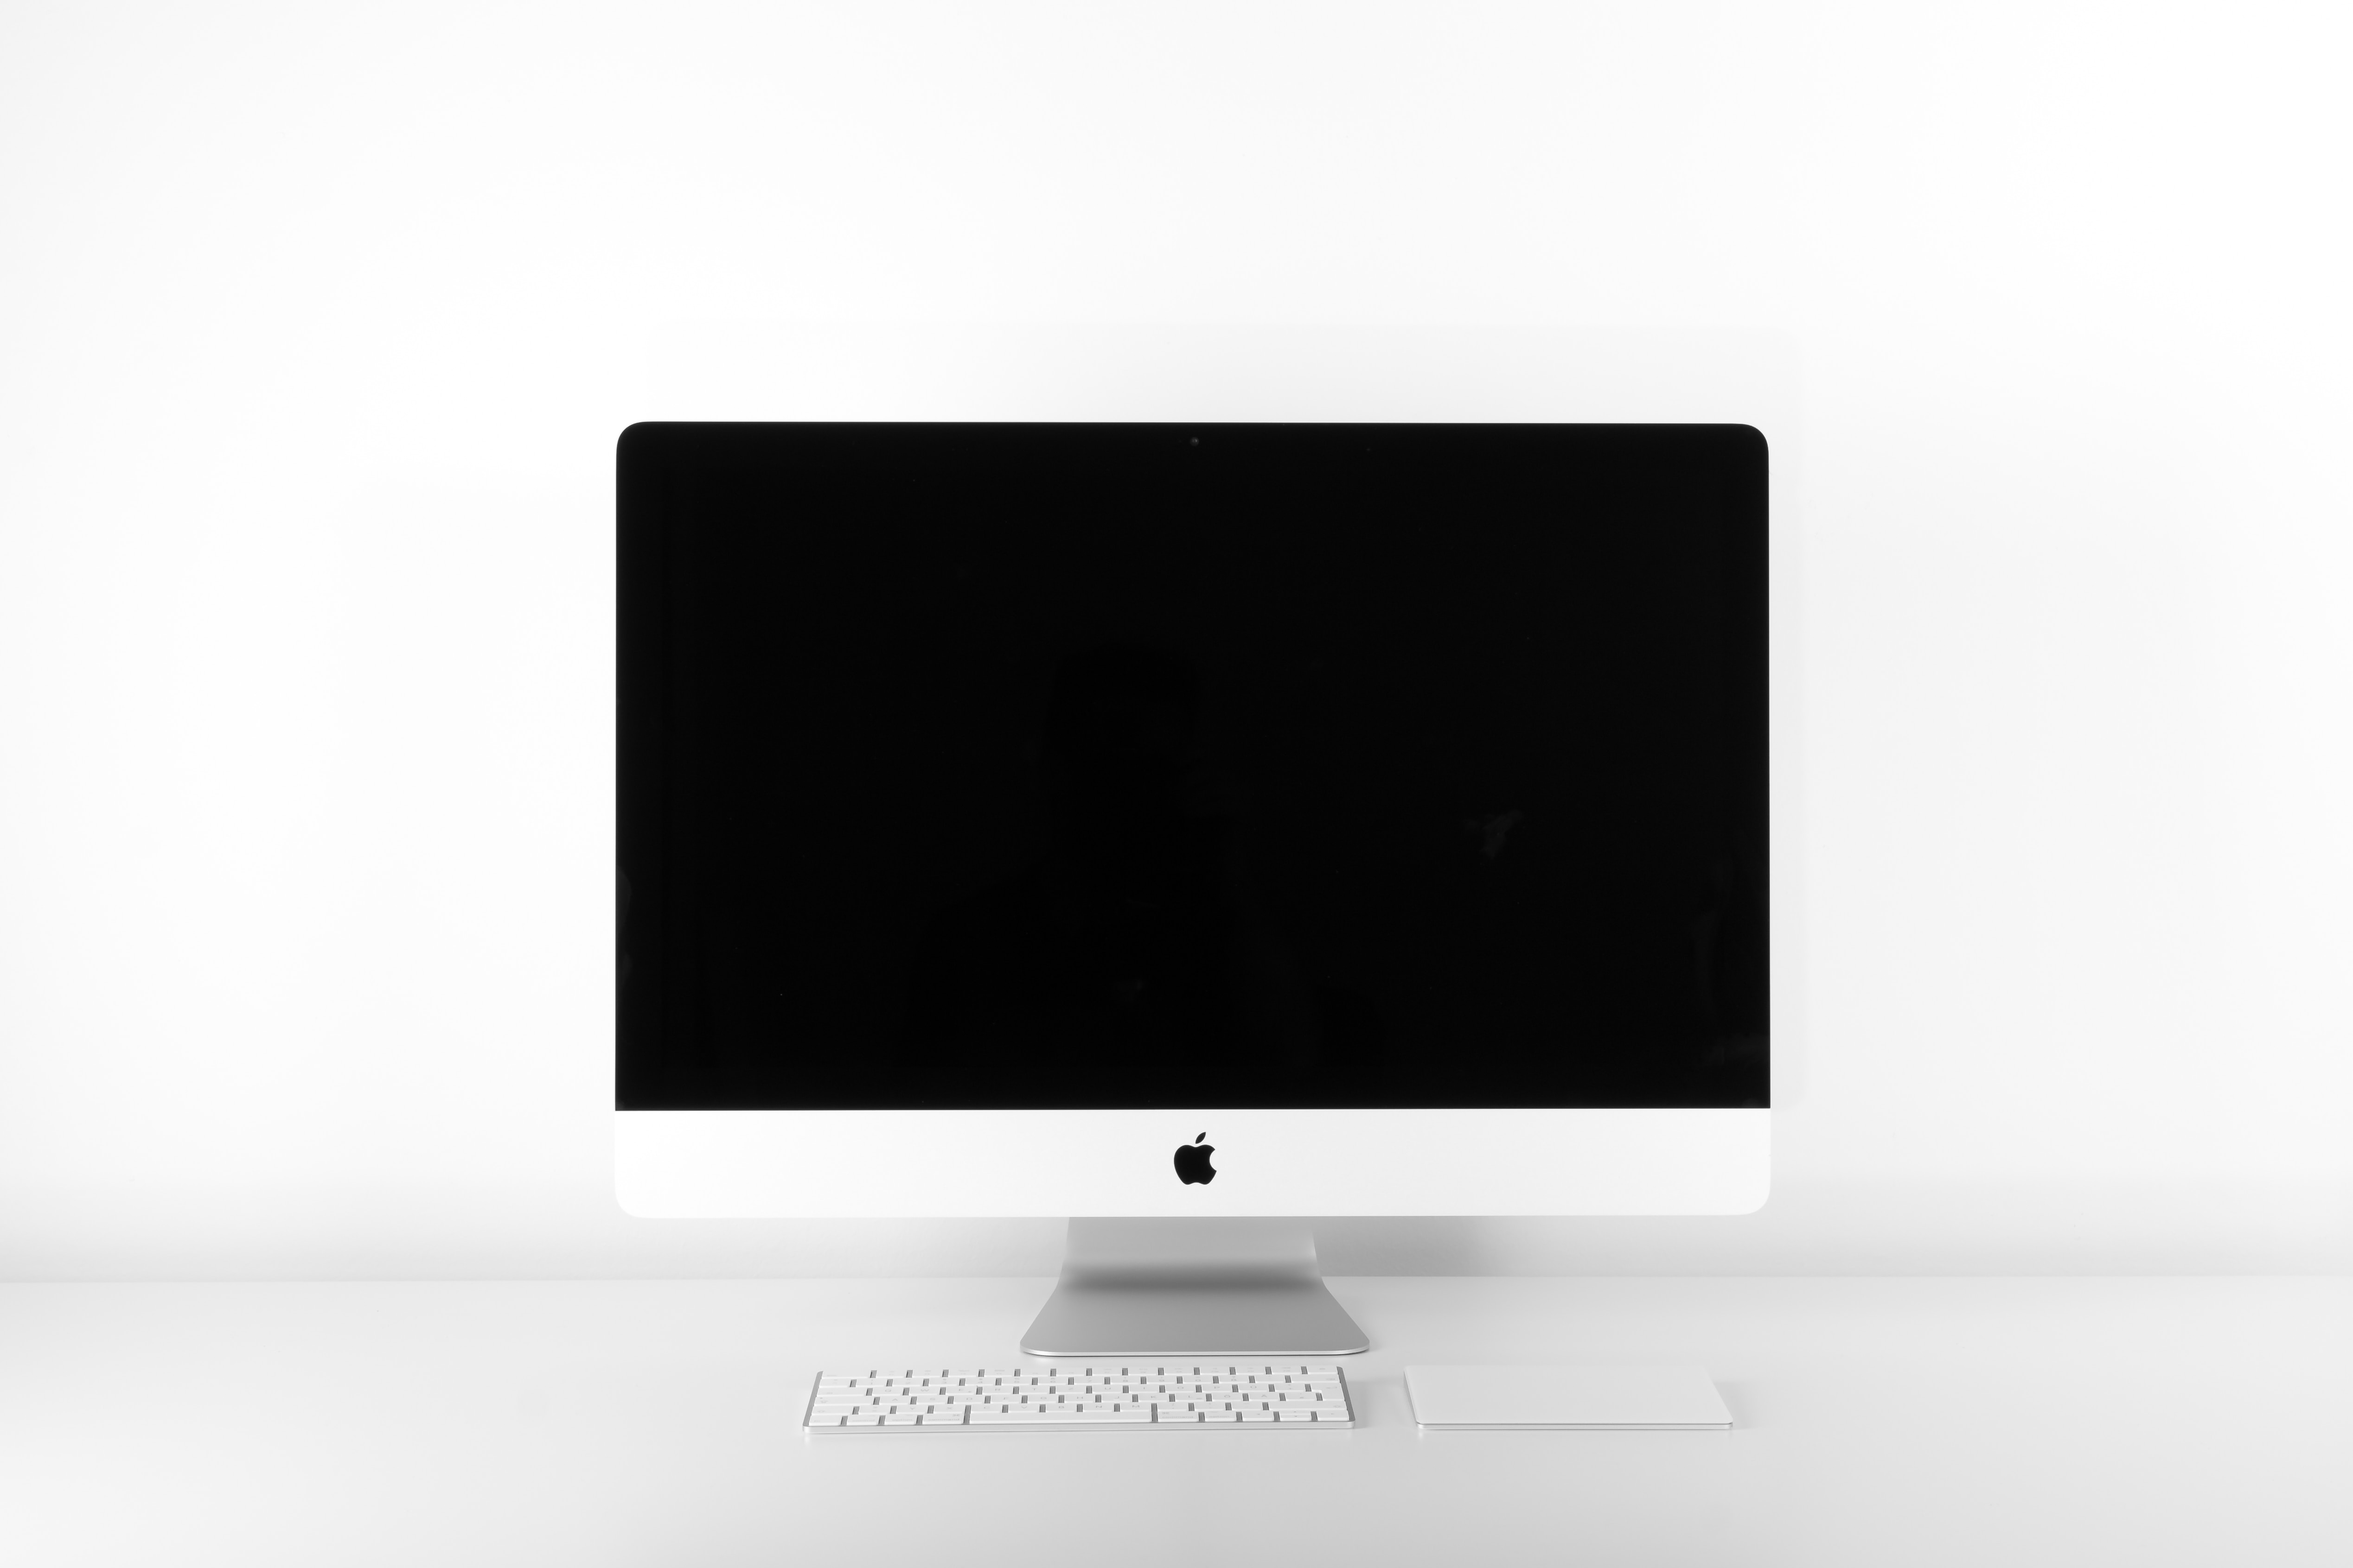
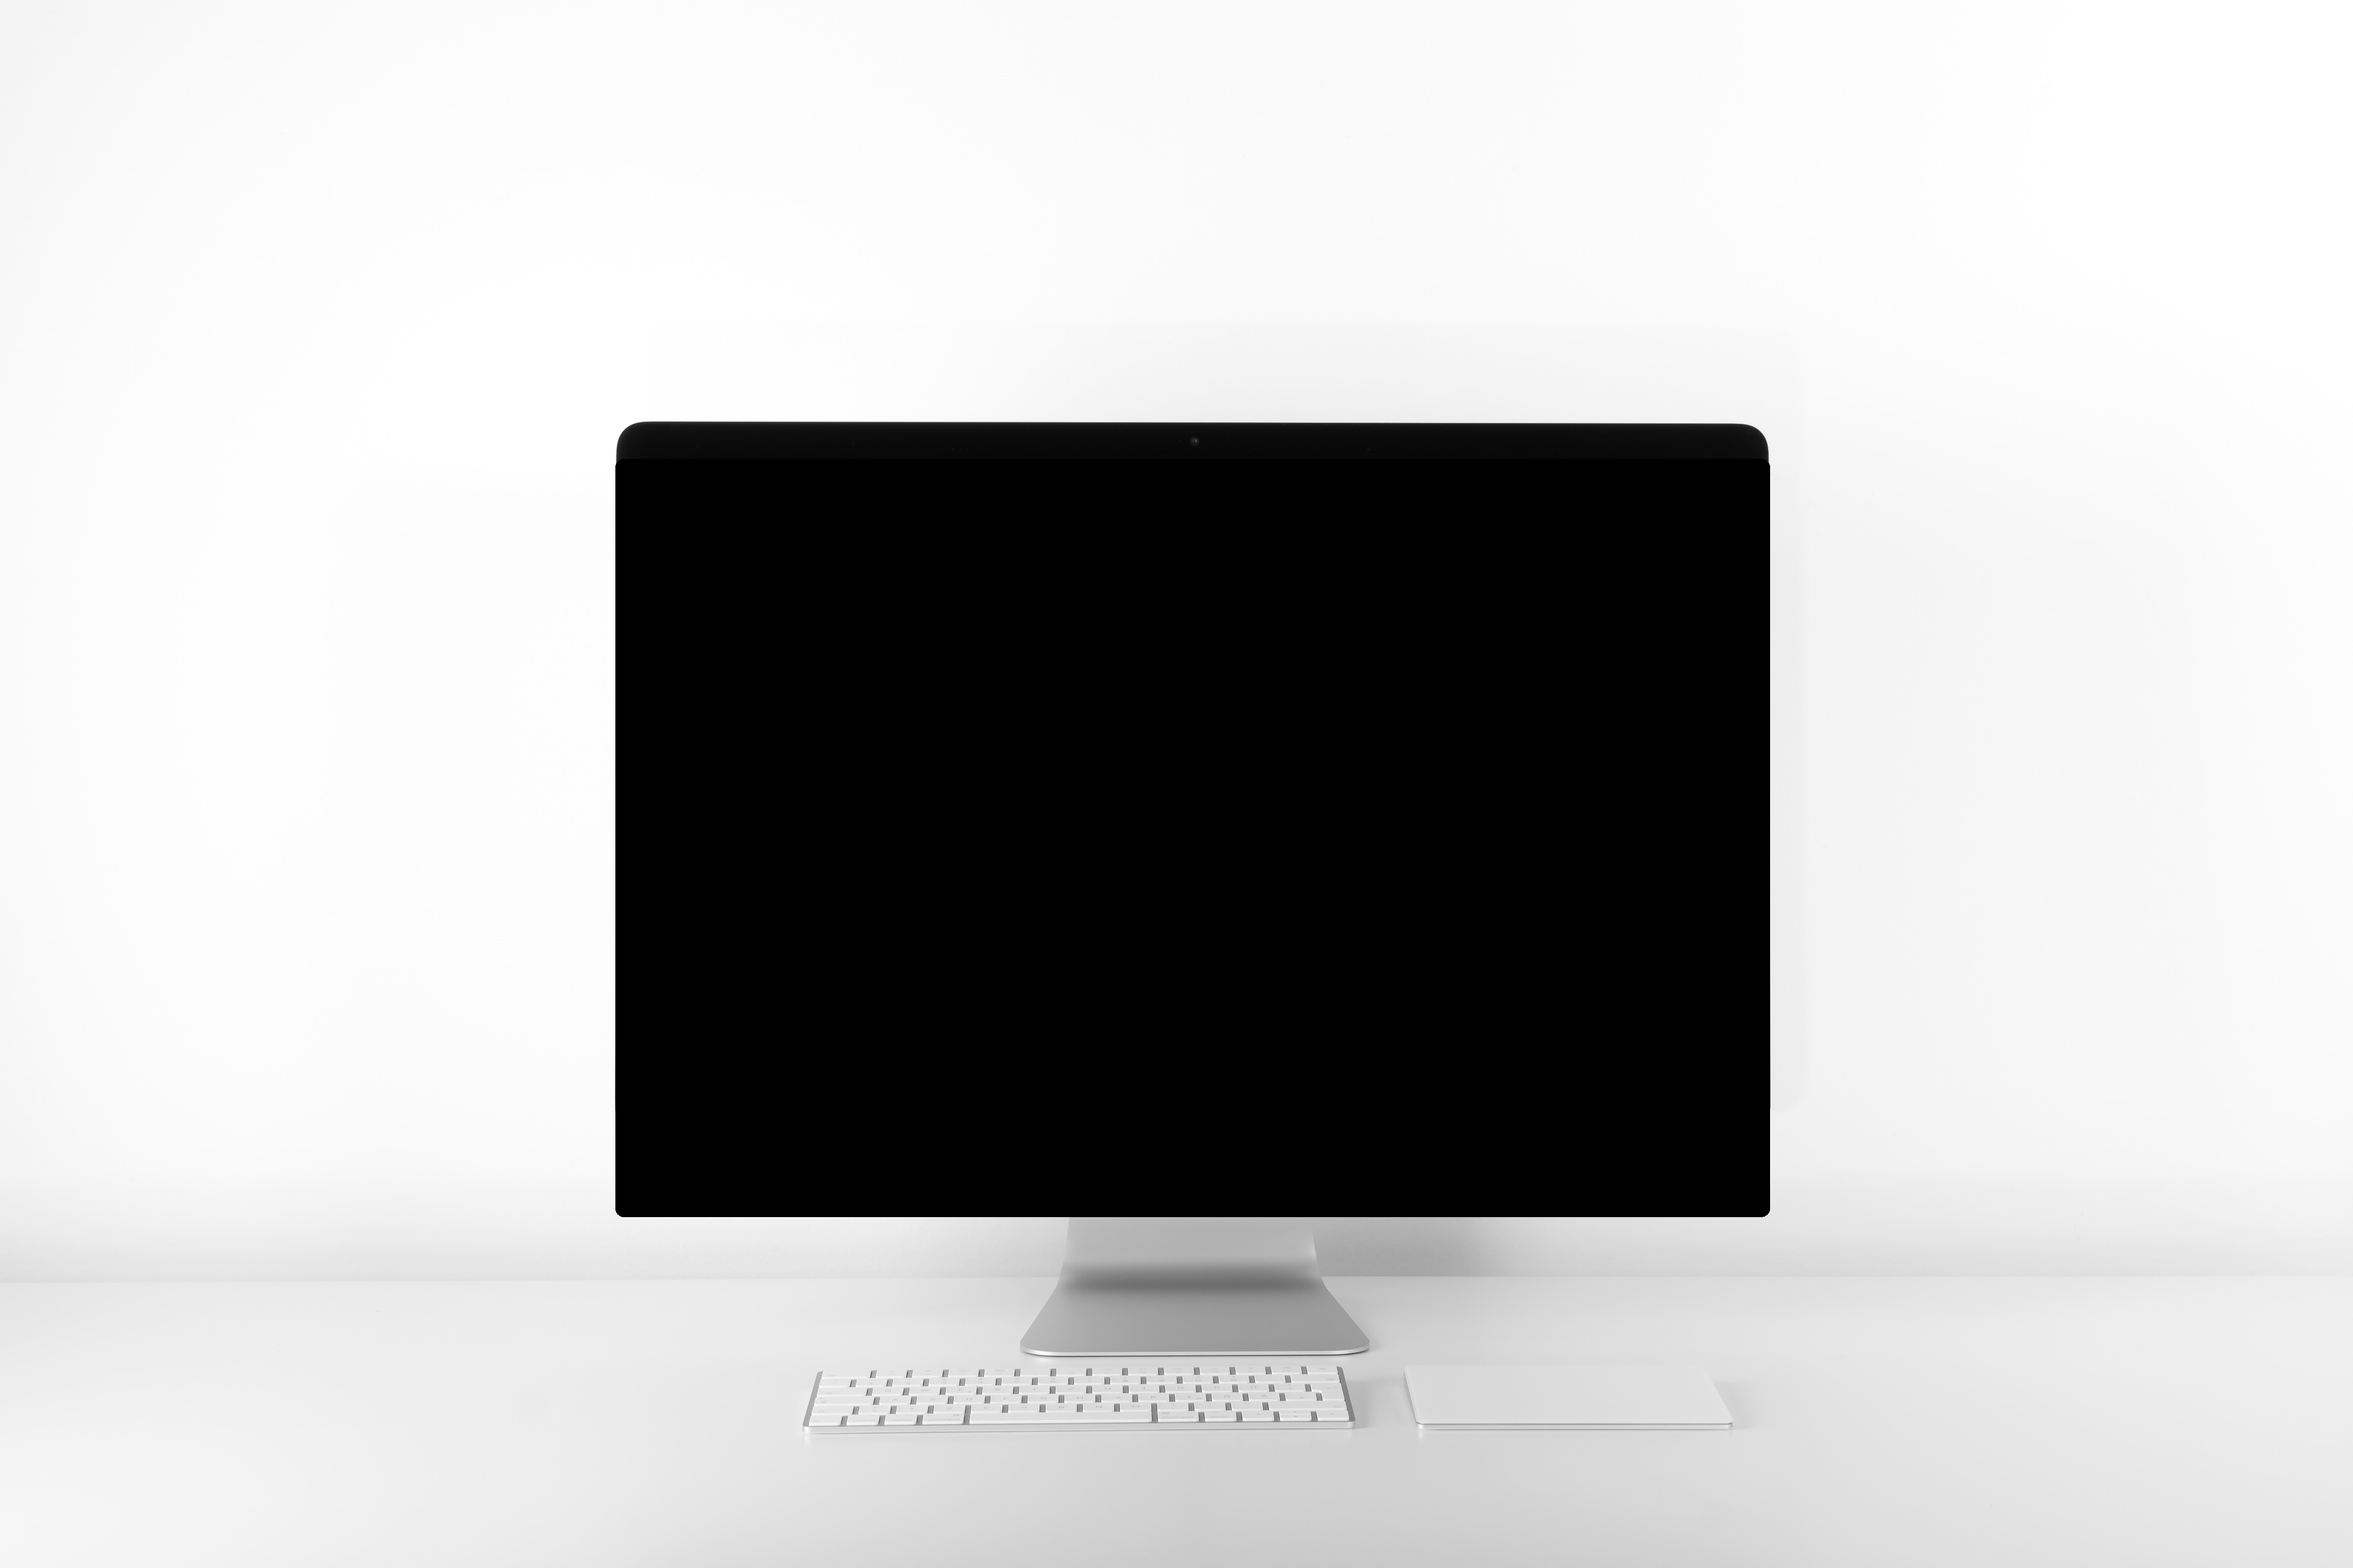
Fixed homepage layout where image scales accordingly

Changed region(s): [[0.2491, 0.6828, 0.7785, 0.7759]]

diff --git a/src/Components/Homepage/homePage.js b/src/Components/Homepage/homePage.js
@@ -29,6 +29,39 @@ class Homepage extends Component{
 		trelloTech: true,
 		androidTech: true,
 
+		backgroundImageWindowStyles:{
+			width: 0,
+			height: 0
+		},
+		homepageLogoImageWindowStyles:{
+			width: 0,
+			height: 0
+		},
+		homepageTechIconsImageWindowStyles:{
+			width: 0,
+			height: 0,
+			top: 0
+		},
+		homepageHomeIconWindowStyles:{
+			top: 0,
+			left: 0
+		},
+		homepageComputerScreenTopWindowStyles:{
+			width: 0,
+			height: 0,
+			top: 0,
+			left: 0
+		},
+		homepageProjectSeperationWindowStyles:{
+			width: 0,
+			top: 0,
+			left: 0
+		},
+		homepageProjectLinksWindowStyles:{
+			minWidth: 0,
+			top: 0,
+			left: 0
+		}
 	}
 
 showMylesrangelTechStack = () => {
@@ -71,15 +104,70 @@ hideclockSpecialtyTechStack = () => {
 	});
 }
 
+updateWindowDimensions = () => {
+
+	this.setState({ backgroundImageWindowStyles:{
+		width: window.innerWidth, 
+		height: window.innerHeight
+		},
+	 });
+	 this.setState({ homepageLogoImageWindowStyles:{
+		width: window.innerWidth /8, 
+		height: window.innerHeight /10
+		},
+	 });
+	 this.setState({ homepageTechIconsImageWindowStyles:{
+		width: window.innerWidth /2,
+		height: window.innerHeight /10,
+		top: window.innerHeight /7,
+		left: window.innerWidth /4
+		},
+	 });
+	 this.setState({ homepageHomeIconWindowStyles:{
+		top: window.innerHeight /1.25,
+		left: window.innerWidth /2.05
+		},
+	 });
+	 this.setState({ homepageComputerScreenTopWindowStyles:{	
+		width: window.innerWidth /2,
+		top: window.innerHeight /2.75,
+		left: window.innerWidth /4.2
+		},
+	 });
+	 this.setState({ homepageProjectSeperationWindowStyles:{	
+		width: window.innerWidth /2,
+		top: window.innerHeight /2,
+		left: window.innerWidth /3.85
+		},
+	 });
+	 this.setState({ homepageProjectLinksWindowStyles:{	
+		width: window.innerWidth /2,
+		top: window.innerHeight /1.85,
+		left: window.innerWidth /3.3
+		},
+	 });
+
+  }
+
+componentDidMount() {
+	this.updateWindowDimensions();
+	window.addEventListener('resize', this.updateWindowDimensions);
+}
+
+componentWillUnmount() {
+	window.removeEventListener('resize', this.updateWindowDimensions);
+}
+
+
 	render(){
 		return(
 			<div>
 				<MediaQuery minWidth = {1000} >
-					<div id="homepageContainer" >
-						<img id = "homepageLogoImage" src = {Logo} alt = "logo" />
-						<Button circular id='homepageHomeIcon' icon= "home" size='big' />
-						<div id = "homepageTechIcons" >
-						{this.state.reactTech && <Button circular color = 'blue' id='react' icon = "react" size = "mini">React </Button> }
+					<div id="homepageContainer" style={this.state.backgroundImageWindowStyles}>
+						<img id = "homepageLogoImage" src = {Logo} style={this.state.homepageLogoImageWindowStyles} alt = "logo" />
+						<Button circular id='homepageHomeIcon' icon= "home" size='big' style = {this.state.homepageHomeIconWindowStyles} />
+						<div id = "homepageTechIcons" style = {this.state.homepageTechIconsImageWindowStyles}>
+							{this.state.reactTech && <Button circular color = 'blue' id='react' icon = "react" size = "mini">React </Button> }
 							{this.state.jsTech &&<Button circular color='green' id='js' icon = "js" size = "mini" > JavaScript </Button>}
 							{this.state.awsTech &&<Button circular color='orange' id='aws' icon = "aws" size = "mini">AWS </Button>}
 							{this.state.html5Tech &&<Button circular color='orange' id='html5' icon = "html5" size = "mini">HTML5 </Button>}
@@ -91,7 +179,7 @@ hideclockSpecialtyTechStack = () => {
 							{this.state.trelloTech &&<Button circular color='blue' id='trello' icon = "trello" size = "mini">Trello </Button>}
 							{this.state.androidTech &&<Button circular color='green' id='android' icon = "android" size = "mini">Android </Button>}
 						</div>
-						<div id = "homepageComputerScreenContainerTop">
+						<div id = "homepageComputerScreenContainerTop" style = {this.state.homepageComputerScreenTopWindowStyles}>
 							<Link to="/about" >
 								<Button circular basic color="red"id='addressCard' icon = "address card"  size='small' >About</Button>
 							</Link>
@@ -102,12 +190,12 @@ hideclockSpecialtyTechStack = () => {
 								<Button circular basic color= "green" id='idCard' icon = "envelope"  size='small' >Contact</Button>
 							</Link>					
 						</div>
-						<div id = "homepageProjectSeperating">
+						<div id = "homepageProjectSeperating" style = {this.state.homepageProjectSeperationWindowStyles}>
 							<hr id="homepageLeftHorizontal" />
 							Experience
 							<hr id="homepageRightHorizontal"/>
 						</div>
-						<div id = "homepageProjectLinks">
+						<div id = "homepageProjectLinks" style = {this.state.homepageProjectLinksWindowStyles}>
 							<a target="_blank" rel="noopener noreferrer" href="https://github.com/mylesrangel/mylesrangel">
 								<div onMouseEnter = {this.showMylesrangelTechStack}  onMouseLeave = {this.hideMylesrangelTechStack} ref = 'mylesrangel' className = "computerScreenIcon" >
 									<Button circular basic color="green"id='addressCard' icon = "file code"  size='small' >mylesrangel.com</Button>								</div>

diff --git a/src/Components/Homepage/homePage.css b/src/Components/Homepage/homePage.css
@@ -6,34 +6,32 @@
 
 
 
-@media only screen and (min-width: 1001px){
+@media only screen and (min-width: 1000px){
 
 	#homepageContainer{
 		/* height is not 1080px because I didnt want the bottom of the image */
-		height: 963px;
+		
 		display: block;
-		background-image: url("../../Media/laptop-image-full-1900.png");
-		background-size: auto;
+		position: absolute;
+		top: 0;
+		left: 0;
+		right: 0;
+		background-image: url("../../Media/laptop-image-full-edited.jpg");
+		background-size: cover;
 		background-repeat: no-repeat;
-		background-position: center;
+		background-position: 50%, 100%;
 
 	}
 	#homepageLogoImage{
 		position: absolute;
-		width: 8%;
-		height: 75px;
 		top: 5px;
 		left: 47%;
 	}
 	#homepageHomeIcon{
 		position: absolute;
-		top: 770px;
-		left: 48.9%;
 	}
 	#homepageTechIcons{
 		position: absolute;
-		top: 100px;
-		left: 26%;
 		max-width: 50%;
 
 	}
@@ -43,17 +41,14 @@
 	#homepageComputerScreenContainerTop{
 		min-width: 50%;
 		text-align: center;
-		position: absolute;
-		top: 260px;
-		left: 24%;
-		
+		position: absolute;	
 	}
 	#homepageComputerScreenContainerTop a{
 		padding-left: 10%;
 	}
 	#homepageProjectSeperating{
 		position: absolute;
-		top: 340px;
+		top: 530px;
 		left: 30%;
 		width: 42%;
 		color: white;
@@ -63,25 +58,24 @@
 		width: 34%;
 	}
 	#homepageRightHorizontal{
-		width: 35%;
+		width: 34%;
 	}
 	#homepageProjectLinks{
 		position: absolute;
-		top: 400px;
+		top: 550px;
 		left: 25.5%;
 		display: flex;
 		flex-flow: wrap;
 		line-height: 3.5;
 		max-height: 29%;
 		overflow: auto;
-		min-width: 50%;
-		max-width: 50%;
+		max-width: 40%;
 		justify-content: space-evenly;
 	}
 }
 
 
-@media only screen and (min-width: 601px) and (max-width: 1000px){
+@media only screen and (min-width: 601px) and (max-width: 999px){
 
 	#homepageContainerTablet{
 		height: 1022px;

diff --git a/src/index.css b/src/index.css
@@ -1,7 +1,5 @@
 html{
-  height: 100%;
   width: 100%;
-
 }
 
 @media only screen and (max-width: 500px){
@@ -12,8 +10,6 @@ html{
   }
 }
 body {
-
-  
   margin: 0;
   padding: 0;
   
